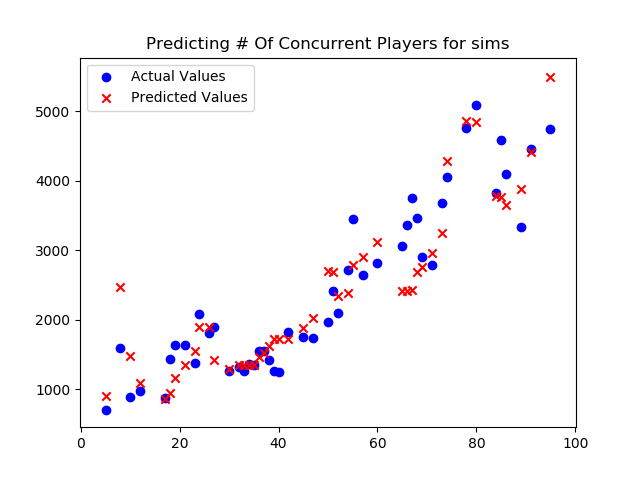
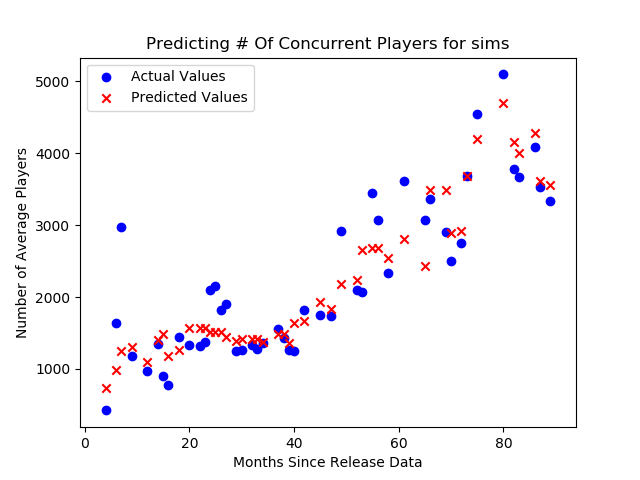
updated

diff --git a/steam.py b/steam.py
@@ -32,9 +32,12 @@ def predictor(game_file, game_data):
     title = "Predicting # Of Concurrent Players for {}"
     plt.title(title.format(game_file[:-4]))
     plt.legend((ac, pred), ('Actual Values', 'Predicted Values'))
+    plt.xlabel("Months Since Release Data")
+    plt.ylabel("Number of Average Players")
     plt.savefig('graphs/' + game_file[:-4] + '.png')
     plt.clf()
-    print("Random Regressor Tree Score:", r2_score(labels_test, prediction))
+    score = r2_score(labels_test, prediction)
+    return 'The R Squared Score for {} is {}'.format(game_file[:-4], score)
 
 
 def dead_or_not(game_file, game_data):
@@ -68,12 +71,14 @@ def dead_or_not(game_file, game_data):
     title = "Predicting # of Concurrent Players In The Future for {}"
     plt.title(title.format(game_file[:-4]))
     plt.legend((pst, ftr), ('Past Data', 'Expected Future Data'))
+    plt.xlabel("Months Since Release Data")
+    plt.ylabel("Number of Average Players")
     plt.savefig('graphs/' + game_file[:-4] + '.png')
     plt.clf()
     future_months = 1
     for x in prediction:
         if x < death_level:
-            return 'In {} months, {} playerbase will be considered' \
+            return 'In {} month(s), the {} player base will be considered' \
                 ' dead'.format(future_months, game_file[:-4])
         else:
             future_months += 1
@@ -105,7 +110,7 @@ def average_predictor(game_file, game_data):
     avg_next_6 = np.mean(next_6['Avg. Players'])
     if average_f6 < avg_next_6:
         return "This game, {}, is increasing in popularity (average)"\
-            " by {}%".format(game_file[:-4], (avg_next_6/average_f6)-1)
+            " by {}%".format(game_file[:-4], ((avg_next_6/average_f6)-1) * 100)
     else:
         return "This game, {}, appears not to be increasing"\
             " in popularity (average)".format(game_file[:-4])
@@ -144,6 +149,8 @@ def linear_predictor(game_file, game_data):
     plt.title(title.format(game_file[:-4]))
     plt.legend((pst, expect, act), ('First 6 Months', 'Expected Next 6',
                                     'Actual Next 6'))
+    plt.xlabel("Months Since Release Data")
+    plt.ylabel("Number of Average Players")
     plt.savefig('graphs/' + game_file[:-4] + '.png')
     plt.clf()
     average_fy = np.mean(actual_fy['Avg. Players'])
@@ -167,10 +174,10 @@ def part1(data):
     sims = 'sims.csv'
     csgo = 'csgo.csv'
     dsiii = 'dsiii.csv'
-    predictor(nba20, data[nba20])
-    predictor(sims, data[sims])
-    predictor(csgo, data[csgo])
-    predictor(dsiii, data[dsiii])
+    print(predictor(nba20, data[nba20]))
+    print(predictor(sims, data[sims]))
+    print(predictor(csgo, data[csgo]))
+    print(predictor(dsiii, data[dsiii]))
 
 
 def part2(data):
@@ -211,15 +218,9 @@ def part3(data):
 
 def main():
     data = clean.load_directory_data('data')
-    # part1(data)
-    # part2(data)
+    part1(data)
+    part2(data)
     part3(data)
-    '''
-    predictor(csgo, data[csgo])
-    print(dead_or_not(csgo, data[csgo]))
-    print(average_predictor(csgo, data[csgo]))
-    print(linear_predictor(csgo, data[csgo]))
-    '''
 
 
 if __name__ == '__main__':
